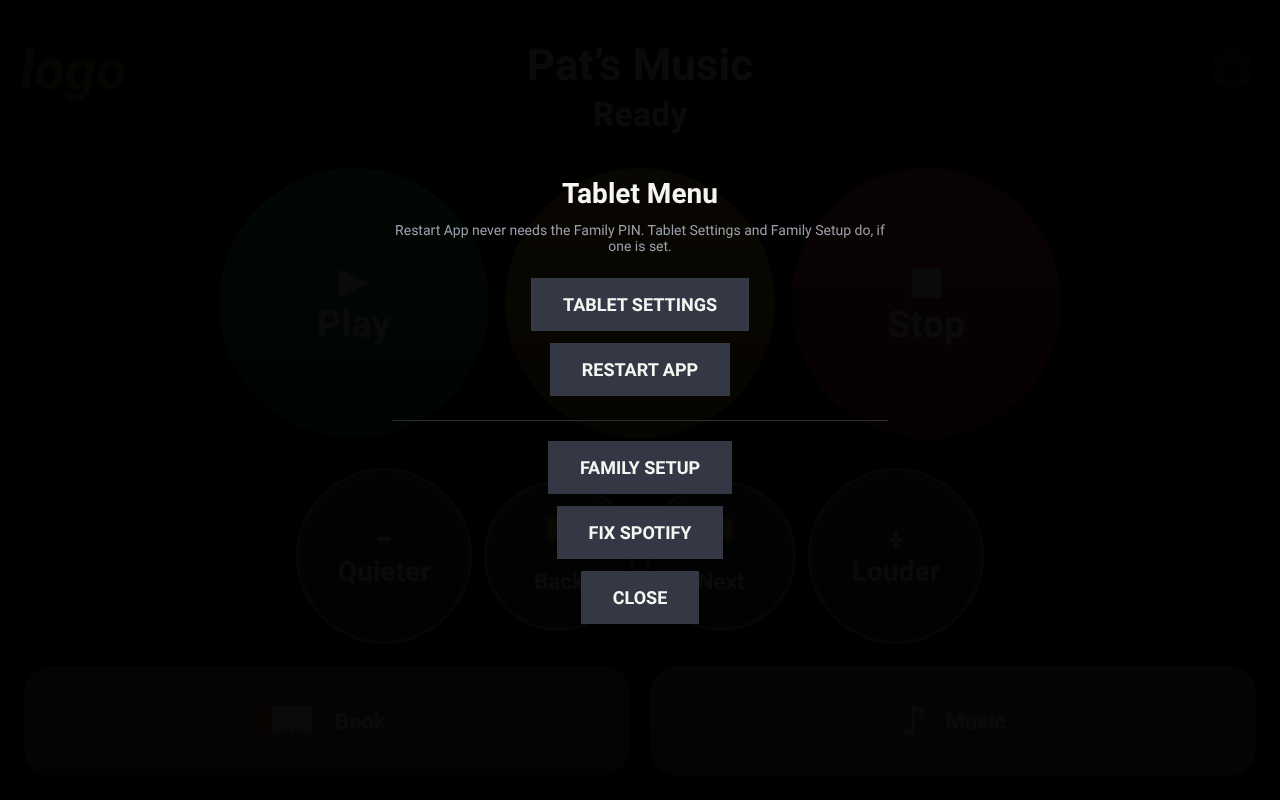
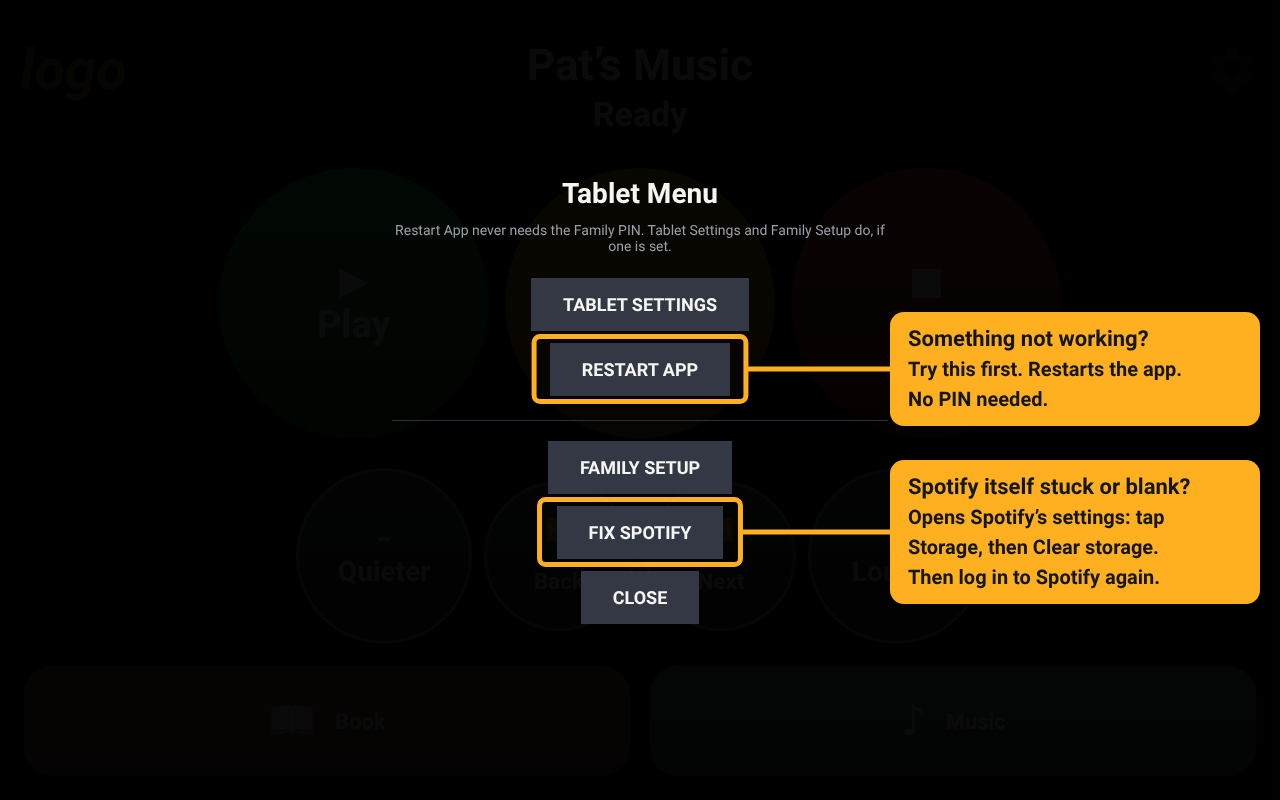
Mark Restart App and Fix Spotify on the Tablet Menu picture; drop the music choice picture
Claude-Session: https://claude.ai/code/session_018ro43wPJNQVLAgVoYpSyBK

Changed region(s): [[0.4062, 0.5625, 1.0, 0.7812], [0.4062, 0.375, 1.0, 0.5312], [0.4375, 0.5938, 0.5625, 0.625]]

diff --git a/docs/GETTING-STARTED.md b/docs/GETTING-STARTED.md
@@ -87,7 +87,7 @@ The full checklist, with the reason for each setting, is in step 7 of [TABLET-SE
 
 To open Family Setup, **press and hold the faint gear icon** in the top right corner for about a second and a half. The Tablet Menu opens; tap **Family Setup**.
 
-![The Tablet Menu: Tablet Settings, Restart App, Family Setup, Fix Spotify and Close.](images/tablet-menu.png)
+![The Tablet Menu: Tablet Settings, Restart App, Family Setup, Fix Spotify and Close. Restart App is marked as the first thing to try when something isn't working, with no PIN needed. Fix Spotify is marked for when Spotify itself is stuck or blank.](images/tablet-menu.png)
 
 1. **Spotify Playlist section.** Paste your Client ID from step 1 into **Spotify Client ID** and tap **Save Client ID**. It says *Client ID saved.*
 2. Tap **Get Login Link**. The tablet tries to open Spotify's login page.
@@ -97,8 +97,6 @@ To open Family Setup, **press and hold the faint gear icon** in the top right co
 5. **Which Device Plays the Music?** Tap **Refresh Devices List** and choose this tablet. If it isn't listed, play a song in the Spotify app again, then refresh. Choosing the tablet here stops the music playing on someone's phone by mistake.
 6. **Playlist.** In the Spotify app, open the playlist, tap the three dots, then **Share**, **Copy link**. Paste it into **Playlist link** and give the button a short name, such as *Hymns* or *Dancing*.
    - For up to three playlists, tick **More playlists** and fill in the other two the same way. The Music button will then offer a choice.
-
-     ![The choice screen shown when Music is tapped: three large buttons named Dancing, Hymns and Relaxing, and Back.](images/music-choice.png)
 7. **Audiobook (optional).** Copy the book's link the same way, paste it into **Audiobook link** and give it a name. Leave it empty and the Book button doesn't appear.
 8. Tap **Save Playlists**.
 9. **Name.** Type the person's name and tap **Save Name**. The main screen then reads, for example, *Pat's Music*.

diff --git a/docs/images/README.md b/docs/images/README.md
@@ -2,6 +2,6 @@
 
 These pictures show the Build 44 screens. They are drawn directly from the app's own layout (`res/layout/activity_main.xml`), colours (`res/drawable/`) and button-sizing code (`MainActivity.sizeButtons()`) at a typical 10-inch tablet size (1280 x 800), so a real tablet looks the same apart from button sizes, which adjust to each screen.
 
-The orange "Setup cog" callout is added for the guides; it doesn't appear on the tablet. Names, songs and playlist names are examples.
+The orange callouts are added for the guides; they don't appear on the tablet. Names, songs and playlist names are examples.
 
 When the screens change, replace these with fresh pictures or real screenshots (on the tablet, press Power and Volume Down together).
